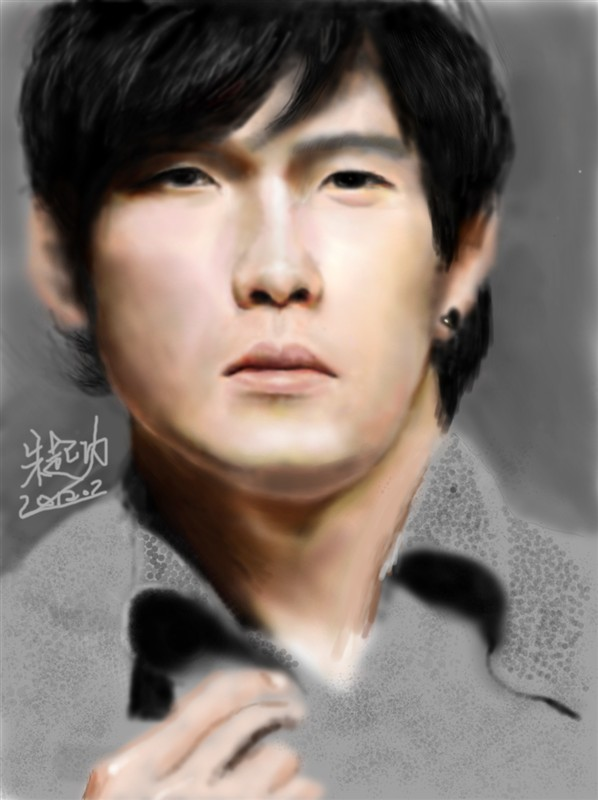
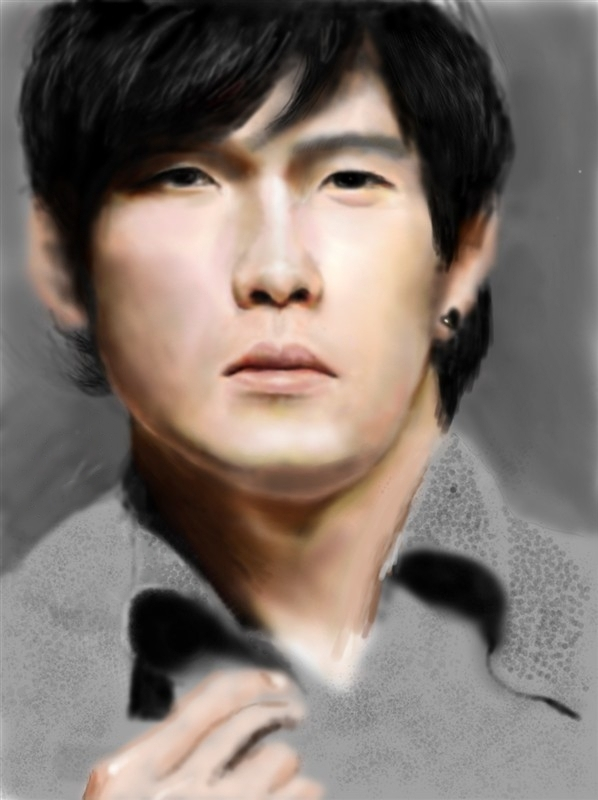
remove chinese signature

Changed region(s): [[0.0301, 0.5312, 0.1806, 0.6562], [0.2408, 0.6875, 0.301, 0.7188]]

diff --git a/src/pages/arts/digital/Content.jsx b/src/pages/arts/digital/Content.jsx
@@ -68,7 +68,7 @@ const Pencil = () => {
           <img src={psc10} alt="" className="" />
         </div>
 
-        <div className="flex justify-center items-center p-4 border-stone-300 border-[10px] shadow-md">
+        <div className="flex justify-center items-center p-4  border-stone-300 border-[10px] shadow-md">
           <img src={psc11} alt="" className="" />
         </div>
 
@@ -88,7 +88,7 @@ const Pencil = () => {
           <img src={psc15} alt="" className="" />
         </div>
 
-        <div className="flex justify-center items-center p-4 border-stone-300 border-[10px] shadow-stone-800 shadow-md">
+        <div className="flex justify-center items-center p-4   border-stone-300 border-[10px] shadow-stone-800 shadow-md">
           <img src={psc16} alt="" className="" />
         </div>
 
@@ -100,22 +100,22 @@ const Pencil = () => {
           <img src={psc18} alt="" className="" />
         </div>
 
-        <div className="flex justify-center items-center p-4 border-stone-300 border-[10px] shadow-stone-800 shadow-md">
+        <div className="flex justify-center items-center p-4  border-stone-300 border-[10px] shadow-stone-800 shadow-md">
           <img src={psc19} alt="" className="" />
         </div>
 
-        <div className="flex justify-center items-center p-4 border-stone-300 border-[10px] shadow-stone-800 shadow-md">
+        <div className="flex justify-center items-center p-4  border-stone-300 border-[10px] shadow-stone-800 shadow-md">
           <img src={psc20} alt="" className="" />
         </div>
 
-        <div className="flex justify-center items-center p-4 border-stone-300 border-[10px] shadow-stone-800 shadow-md">
+        <div className="flex justify-center items-center p-4  border-stone-300 border-[10px] shadow-stone-800 shadow-md">
           <img src={psc21} alt="" className="" />
         </div>
 
         <div className="flex justify-center items-center wide p-4 border-stone-300 border-[10px] shadow-stone-800 shadow-md">
           <img src={psc22} alt="" className="" />
         </div>
-        <div className="flex justify-center items-center wide p-4 border-stone-300 border-[10px] shadow-stone-800 shadow-md">
+        <div className="flex justify-center items-center wide p-4  border-stone-300 border-[10px] shadow-stone-800 shadow-md">
           <img src={psc23} alt="" className="" />
         </div>
       </div>

diff --git a/src/pages/arts/digital/style.css b/src/pages/arts/digital/style.css
@@ -25,6 +25,10 @@ img {
 .gallery .wide {
   grid-column: span 2;
 }
+.gallery .extrawide {
+  grid-column: span 4;
+  grid-row: span 2;
+}
 .gallery .tall {
   grid-row: span 2;
 }
